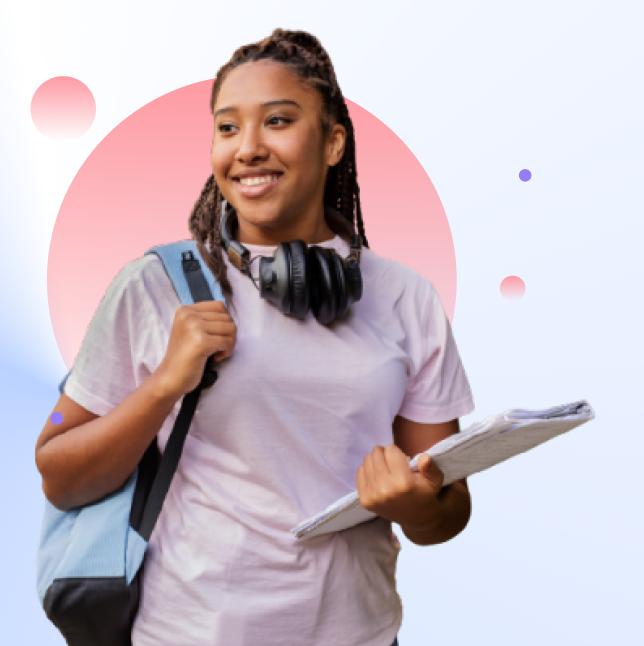
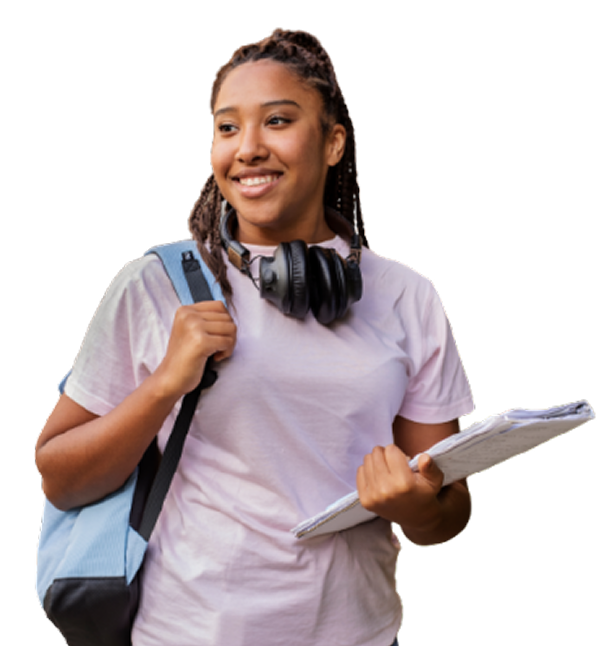
update homepage hero

diff --git a/index.html b/index.html
@@ -83,21 +83,21 @@
         </div>
     </nav>
 
-    <section class="px-2 sm:px-0 py-16 flex flex-col md:flex-row font-roboto w-full"
+    <section class="px-2 sm:px-0 py-16 flex flex-col md:flex-row font-roboto w-full min-h-[490px]"
         style="background: conic-gradient(from -45.28deg at 61.07% 61.25%, #BBD2FF 0deg, #FFFFFF 54.37deg, #F0F5FF 121.29deg, #BBD2FF 360deg);">
         <div class="max-w-screen-lg mx-auto flex flex-col-reverse sm:flex-row w-full">
-            <div class="grow">
+            <div class="grow mt-[400px] sm:mt-0">
                 <h1 class="text-agility-primary font-bold font-montserrat">Skills-Innov8</h1>
                 <h1 class="text-4xl md:text-5xl font-bold mb-4">Manage Your <br> SIWES With Ease</h1>
-                <p class="text-gray-700">Connect with Institution and Companies<br>in one simple platform</p>
+                <p class="text-gray-700">Connect with Institutions and Companies in one simple platform</p>
                 <div class="flex pt-2 justify-between w-full max-w-[440px]">
                     <button
                         class="w-[45vw] sm:w-[210px] h-[64px] py-[8px] px-2 sm:px-[24px] bg-white shadow-md rounded-[12px]">
                         <div class="flex w-full">
                             <img src="assets/icons/playstore-icon.png" class="w-[30px] h-[30px] my-auto" />
                             <div class="text-left pl-2">
-                                <p>Get it on</p>
-                                <p class="font-bold">Google Play</p>
+                                <p class="text-[12px]">Get it on</p>
+                                <p class="font-bold text-[16px]">Google Play</p>
                             </div>
                         </div>
                     </button>
@@ -107,15 +107,47 @@
                         <div class="flex w-full">
                             <img src="assets/icons/apple-icon.png" class="w-[30px] h-[30px] my-auto" />
                             <div class="text-left pl-2">
-                                <p>Download on the</p>
-                                <p class="font-bold">Apple Store</p>
+                                <p class="text-[12px]">Download on the</p>
+                                <p class="font-bold text-[16px]">Apple Store</p>
                             </div>
                         </div>
                     </button>
                 </div>
             </div>
-            <div class="md:w-1/2 mb-10 md:mb-0">
-                <img src="assets/images/homepage-cover.png" alt="Student" />
+            <div class="md:w-1/2 mb-10 md:mb-0 relative">
+                <!-- BACKGROUND IMAGES -->
+                <div class="absolute left-[68%] top-[8vh] z-0 h-fit w-full -translate-x-1/2 transform">
+                    <div class="flex w-full">
+                        <img src="assets/icons/home-icons/ellipse-26.png" alt="ellipse bg 1" class="w-[300px]" />
+                    </div>
+                </div>
+
+                <div class="absolute left-[20%] top-[5vh] z-0 h-fit w-fit -translate-x-1/2 transform">
+                    <div class="flex w-full">
+                        <img src="assets/icons/home-icons/ellipse-26-1.png" alt="ellipse bg 2" />
+                    </div>
+                </div>
+
+                <div class="absolute left-[80%] top-[20vh] z-0 h-fit w-fit -translate-x-1/2 transform">
+                    <div class="flex w-full">
+                        <img src="assets/icons/home-icons/ellipse-26-2.png" alt="ellipse bg 2" />
+                    </div>
+                </div>
+
+                <div class="absolute left-[85%] top-[5vh] z-0 h-fit w-fit -translate-x-1/2 transform">
+                    <div class="flex w-full">
+                        <img src="assets/icons/home-icons/ellipse-26-3.png" alt="ellipse bg 2" />
+                    </div>
+                </div>
+
+                <div class="absolute left-[20%] top-[82%] z-10 h-fit w-fit -translate-x-1/2 transform">
+                    <div class="flex w-full">
+                        <img src="assets/icons/home-icons/ellipse-26-4.png" alt="ellipse bg 2" />
+                    </div>
+                </div>
+                <div class="absolute left-[62%] z-0 h-fit w-full -translate-x-1/2 transform">
+                    <img src="assets/images/homepage-cover.png" alt="Student" width="400px" />
+                </div>
             </div>
         </div>
     </section>
@@ -252,8 +284,8 @@
                 <div class="flex w-full">
                     <img src="assets/icons/playstore-icon.png" class="w-[30px] h-[30px] my-auto" />
                     <div class="text-left pl-2">
-                        <p>Get it on</p>
-                        <p class="font-bold">Google Play</p>
+                        <p class="text-[12px]">Get it on</p>
+                        <p class="font-bold text-[16px]">Google Play</p>
                     </div>
                 </div>
             </button>
@@ -262,8 +294,8 @@
                 <div class="flex w-full">
                     <img src="assets/icons/apple-icon.png" class="w-[30px] h-[30px] my-auto" />
                     <div class="text-left pl-2">
-                        <p>Download on the</p>
-                        <p class="font-bold">Apple Store</p>
+                        <p class="text-[12px]">Download on the</p>
+                        <p class="font-bold text-[16px]">Apple Store</p>
                     </div>
                 </div>
             </button>
@@ -303,7 +335,7 @@
                     </div>
 
                 </div>
-                <div class="bg-white p-6 rounded-lg shadow">
+                <div class="bg-white p-6 rounded-lg shadow mb-4">
                     <p class="mb-4">“Skillis-Innov8 made SIWES simple—with matched applications and easy institution
                         connection."</p>
                     <div class="flex">
